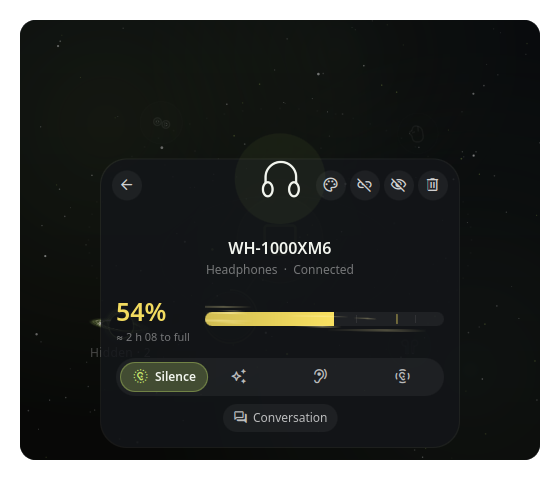
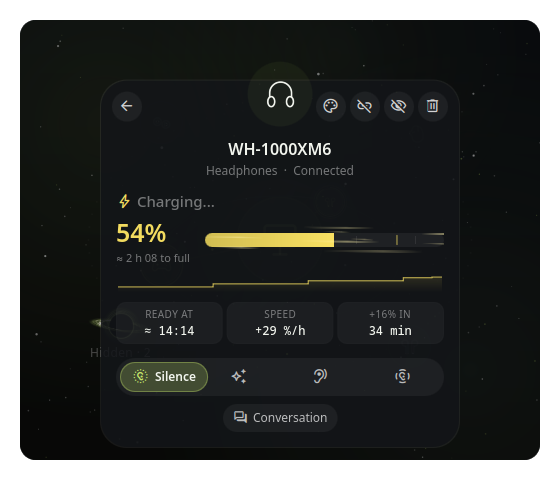
Compact detail card header; popout grows to fit the card
The focus glyph shrinks from 28% to 20% of the card width and the gap
under the title tightens. The bar popout grows while a card is open, like
the Control Center tile, so the whole card down to noise control fits.

diff --git a/components/OrbitScene.qml b/components/OrbitScene.qml
@@ -48,10 +48,11 @@ Item {
     readonly property real coreSize: Math.round(Math.min(width, height) * 0.2)
     readonly property real bodySize: Math.round(Math.max(34, Math.min(width, height) * 0.135))
 
-    // Focus mode layout: a modest glyph (~28% of the card width) peeking
+    // Focus mode layout: a small glyph (~20% of the card width) peeking
     // ~30% above the card's top edge, the rest sitting inside the frame
     readonly property real focusCardWidth: Math.min(width - Theme.spacingL * 2, 360)
-    readonly property real focusGlyphSize: Math.min(focusCardWidth * 0.28, height * 0.26)
+    readonly property real focusGlyphRatio: 0.2
+    readonly property real focusGlyphSize: Math.min(focusCardWidth * focusGlyphRatio, height * 0.26)
     readonly property real focusGlyphScale: focusGlyphSize / bodySize
     readonly property real focusGlyphLift: focusGlyphSize * 0.2      // glyph center relative to card top
     readonly property real focusOverlap: focusGlyphLift + focusGlyphSize * 0.5 + 8
@@ -62,7 +63,7 @@ Item {
     readonly property real focusFitHeight: {
         if (!focusBody)
             return 0;
-        const glyph = focusCardWidth * 0.28;
+        const glyph = focusCardWidth * focusGlyphRatio;
         const content = focusCard.implicitHeight - focusOverlap - Theme.spacingL;
         return content + glyph * 0.7 + 8 + Theme.spacingL + glyph * 0.35 + Theme.spacingM;
     }

diff --git a/OrbitBluetoothWidget.qml b/OrbitBluetoothWidget.qml
@@ -125,7 +125,9 @@ PluginComponent {
     pillRightClickAction: () => BluetoothService.toggleBluetooth()
 
     popoutWidth: 520
-    popoutHeight: 440
+    // Grows while a detail card is open, like the Control Center tile
+    property real popCardFit: 0
+    popoutHeight: Math.max(440, Math.ceil(popCardFit))
 
     popoutContent: Component {
         Item {
@@ -145,6 +147,8 @@ PluginComponent {
                     cornerRadius: Theme.cornerRadius
                     // The popout keeps its content loaded; only run while shown
                     active: pop.parentPopout ? pop.parentPopout.shouldBeVisible : true
+                    onFocusFitHeightChanged: root.popCardFit = focusFitHeight
+                    Component.onDestruction: root.popCardFit = 0
                 }
             }
         }

diff --git a/scripts/preview/shot.qml b/scripts/preview/shot.qml
@@ -17,7 +17,7 @@ Window {
     // Control Center sized shots for the black hole, menu and comet
     readonly property bool compact: ["buds", "budsdock", "hole", "holetess", "hiddencard", "hiddenempty", "connecting", "menu", "feed"].indexOf(mode) >= 0
     width: glass ? 760 : (mode === "zoom" ? 900 : compact ? 540 : 560)
-    height: glass ? 560 : (mode === "zoom" ? 700 : mode.startsWith("buds") ? 400 : mode === "ancfocus" ? 540 : compact ? 354 : 480)
+    height: glass ? 560 : (mode === "zoom" ? 700 : mode.startsWith("buds") ? 520 : mode === "ancfocus" ? 540 : compact ? 354 : 480)
     visible: true
     color: "#101114"
 

diff --git a/components/FocusCard.qml b/components/FocusCard.qml
@@ -229,7 +229,7 @@ Item {
             // One gap between the title block, the battery and the controls
             Item {
                 width: 1
-                height: Theme.spacingM
+                height: Theme.spacingS
             }
 
             // Earbuds with a case: case, left and right with a bar each

diff --git a/README.md b/README.md
@@ -75,6 +75,7 @@ Bluetooth.
 Add **Orbit Bluetooth** to any bar section.
 
 - Left click opens the orbit view in a popout.
+- The popout grows while a detail card is open, so the whole card fits.
 - Right click turns Bluetooth on or off.
 - Connected devices appear as tiny glyphs in the pill.
 
